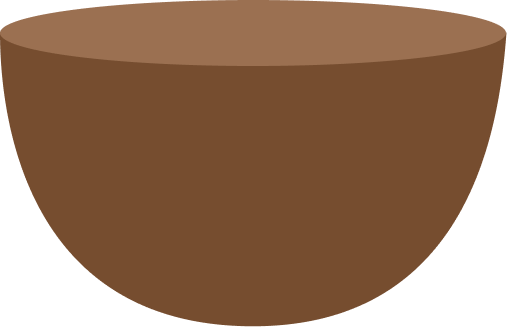
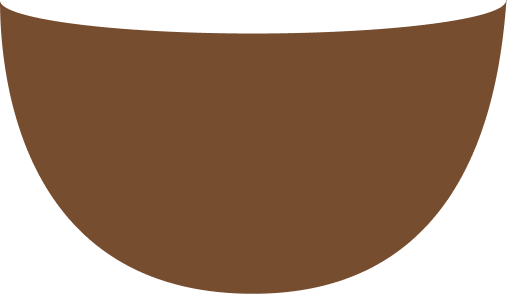
Completed Stage 2

diff --git a/src/components/stages/Stage2.tsx b/src/components/stages/Stage2.tsx
@@ -1,4 +1,5 @@
 import React from "react";
+import { useState } from "react";
 import "../../styles/Stage2.scss";
 import flour from "/assets/Flour.png";
 import nest from "/assets/Nest.png";
@@ -6,8 +7,15 @@ import milk from "/assets/MilkCarton.png";
 import sugar from "/assets/SpoonofSugar.png";
 import knife from "/assets/Knife.png";
 import cookies from "/assets/Cookies.png";
-import bowl from "/assets/bowl.png";
-import { Card } from "../../../node_modules/@mui/material/index";
+import bowl from "/assets/Bowl.png";
+import bowlSubtract from "/assets/BowlSubtract.png";
+import eggs from "/assets/Eggs.png";
+import sugarMound from "/assets/Sugar.png";
+import {
+  Button,
+  Card,
+  ListItem,
+} from "../../../node_modules/@mui/material/index";
 
 const Stage2: React.FC = () => {
   interface Ingredient {
@@ -15,6 +23,11 @@ const Stage2: React.FC = () => {
     name: string;
     img: string;
   }
+  const [hideCardsInBackground, setHideCardsInBackground] = useState(false);
+  const [selectedIngredient, setSelectedIngredient] = useState("");
+  const [addedIngredients, setAddedIngredients] = useState<Set<string>>(
+    new Set()
+  );
 
   const ingredients: Ingredient[] = [
     {
@@ -49,31 +62,97 @@ const Stage2: React.FC = () => {
     },
   ];
 
+  const ingredientDescriptions = {
+    FLOUR:
+      "Just like how flour is added to real cookies, login information (such as usernames and passwords) can be added and stored in web cookies!",
+    EGGS: "Your browsing history can be stored in web cookies as well. Let's add some eggs in to represent all the sites you have visited.",
+    MILK: "Personal data like name, address, and phone number can be stored in web cookies. Just like how milk isn't always added to real cookies, web cookies don't always contain this data!",
+    SUGAR: "Time to add something sweet!",
+    BUTTER:
+      "Web cookies can store items in a shopping cart on an online shopping website. This can make your shopping experience smooth as butter!",
+    TOPPINGS:
+      "Last but not least! Web cookies can store user preferences, like what language or font size you like to read and view website content with. Let's add some toppings of your choice!",
+  };
+
+  function greyOutCards() {
+    setHideCardsInBackground(true);
+  }
+
+  function selectIngredient(id) {
+    if (hideCardsInBackground) return; // don't allow user to select a card if one is already selected
+    const ingredientName = ingredients.find((item) => item.id === id).name;
+    if (addedIngredients.has(ingredientName)) {
+      return;
+    }
+    setSelectedIngredient(ingredientName);
+    greyOutCards();
+  }
+
+  function addIngredient() {
+    setAddedIngredients((prev) => new Set(prev).add(selectedIngredient));
+    setHideCardsInBackground(false);
+  }
+
   return (
     <div className="stage2-container">
       <h1 style={{ marginBottom: "30px" }}>Stage 2</h1>
       <p>
-        Lorem ipsum dolor sit amet, consectetur adipiscing elit, sed do eiusmod
-        tempor incididunt ut labore et dolore magna aliqua. Ut enim ad minim
-        veniam, quis nostrud exercitation ullamco laboris nisi ut aliquip ex ea
-        commodo consequat. Duis aute irure dolor in reprehenderit in voluptate
-        velit esse cillum dolore eu fugiat nulla pariatur. Excepteur sint
-        occaecat cupidatat non proident, sunt in culpa qui officia deserunt
-        mollit anim id est laborum.
+        Let's see how web cookies are made! Just like mixing ingredients makes
+        cookie dough, websites mix bits of your info to make a web cookie.
       </p>
       <div className="stage2-graphics-container">
         <div className="ingredients-container">
           {ingredients.map((card) => (
-            <div key={card.id} className="ingredient-card">
-              <img src={card.img} alt={`${card.name} icon`} />
-              <p>{card.name}</p>
+            <div
+              key={card.id}
+              className={
+                hideCardsInBackground
+                  ? "ingredient-card-hidden"
+                  : addedIngredients.has(card.name)
+                  ? "ingredient-card ingredient-card-used"
+                  : "ingredient-card"
+              }
+              onClick={() => selectIngredient(card.id)}
+            >
+              {!hideCardsInBackground ? (
+                <>
+                  <img src={card.img} alt={`${card.name} icon`} />
+                  <p>{card.name}</p>
+                </>
+              ) : null}
             </div>
           ))}
+          {hideCardsInBackground && (
+            <div className="ingredient-card-selected">
+              <p>{ingredientDescriptions[selectedIngredient]}</p>
+              <button onClick={() => addIngredient()}>
+                <p>
+                  Add{" "}
+                  {selectedIngredient.charAt(0) +
+                    selectedIngredient.slice(1).toLowerCase()}
+                </p>
+              </button>
+            </div>
+          )}
         </div>
         <div className="bowl-container">
+          <img
+            src={bowlSubtract}
+            alt="bowl"
+            style={{ marginBottom: "-35px", zIndex: "-10" }}
+          />
           <img src={bowl} alt="bowl" />
+          {selectedIngredient === "EGGS" && hideCardsInBackground && (
+            <img src={eggs} alt="eggs" className="eggs-icon" />
+          )}
+          {selectedIngredient === "SUGAR" && hideCardsInBackground && (
+            <img src={sugarMound} alt="sugar" className="sugar-icon" />
+          )}
         </div>
       </div>
+      {addedIngredients.size === ingredients.length && (
+        <button className="next-stage-button">Next Stage</button>
+      )}
     </div>
   );
 };

diff --git a/src/styles/Stage2.scss b/src/styles/Stage2.scss
@@ -14,14 +14,16 @@
     width: 100%;
     margin-top: 20px;
     display: grid;
-    grid-template-columns: 3fr 2fr;
+    grid-template-columns: 2fr 2fr;
 
     .ingredients-container {
       display: grid;
-      grid-template-columns: 1fr 1fr 1fr;
+      grid-template-columns: 1fr 1fr 0fr;
       gap: 40px 0px;
+      position: relative;
 
-      .ingredient-card {
+      .ingredient-card,
+      .ingredient-card-hidden {
         position: relative;
         width: 190px;
         height: 250px;
@@ -30,6 +32,17 @@
         flex-direction: column;
         text-align: center;
         justify-content: center;
+        border-radius: 16px;
+        transition: transform 0.5s ease;
+      }
+
+      .ingredient-card:hover {
+        cursor: pointer;
+        transform: translateY(-8px);
+      }
+
+      .ingredient-card-hidden {
+        background-color: #f3c76040;
       }
 
       .ingredient-card img {
@@ -39,13 +52,112 @@
 
       .ingredient-card p {
         position: absolute;
-        bottom: 0px;
+        bottom: 10px;
         align-self: center;
+      }
+
+      .ingredient-card-selected {
+        position: absolute;
+        width: 360px;
+        height: 480px;
+        display: flex;
+        flex-direction: column;
+        align-items: center;
+        justify-content: space-between;
+        background-color: #f3c760;
+        border-radius: 16px;
+        transition: transform 0.5s ease;
+        top: 50%;
+        left: 50%;
+        transform: translate(-50%, -50%);
+        box-shadow: 4px 4px 4px rgba(0, 0, 0, 0.5);
+        padding: 58px 40px 35px 40px;
+
+        p {
+          line-height: 1.25;
+        }
+
+        button {
+          width: 92%;
+          height: 20%;
+          border-radius: 12px;
+          background-color: #764d2f;
+          border: 0px;
+          color: white;
+          font-weight: 400;
+          font-family: "Manjari", sans-serif;
+          font-weight: 700;
+          display: flex;
+          justify-content: center;
+          align-items: center;
+
+          p {
+            font-size: 38px;
+            align-self: center;
+            padding-top: 6%;
+          }
+        }
+
+        button:hover {
+          cursor: pointer;
+        }
+      }
+
+      .ingredient-card-used {
+        opacity: 50%;
+      }
+
+      .ingredient-card-used:hover {
+        cursor: default;
+        transform: none;
       }
     }
 
     .bowl-container {
       margin: auto;
+      position: relative;
+      height: 100%;
+      display: flex;
+      flex-direction: column;
+      justify-content: flex-end;
+      padding-bottom: 20px;
+
+      .eggs-icon {
+        position: absolute;
+        left: 40%;
+        top: 0%;
+      }
+
+      .sugar-icon {
+        position: absolute;
+        left: 8%;
+        top: 15%;
+        z-index: -5;
+      }
     }
+  }
+
+  .next-stage-button {
+    position: absolute;
+    left: 80%;
+    width: 15%;
+    height: 70px;
+    border-radius: 12px;
+    background-color: #f3c760;
+    border: 0px;
+    font-weight: 400;
+    font-family: "Manjari", sans-serif;
+    font-weight: 700;
+    font-size: 36px;
+    display: flex;
+    justify-content: center;
+    align-items: center;
+    padding-top: 10px;
+    transition: transform 0.5s ease;
+  }
+
+  .next-stage-button:hover {
+    cursor: pointer;
+    transform: translateY(-8px);
   }
 }
